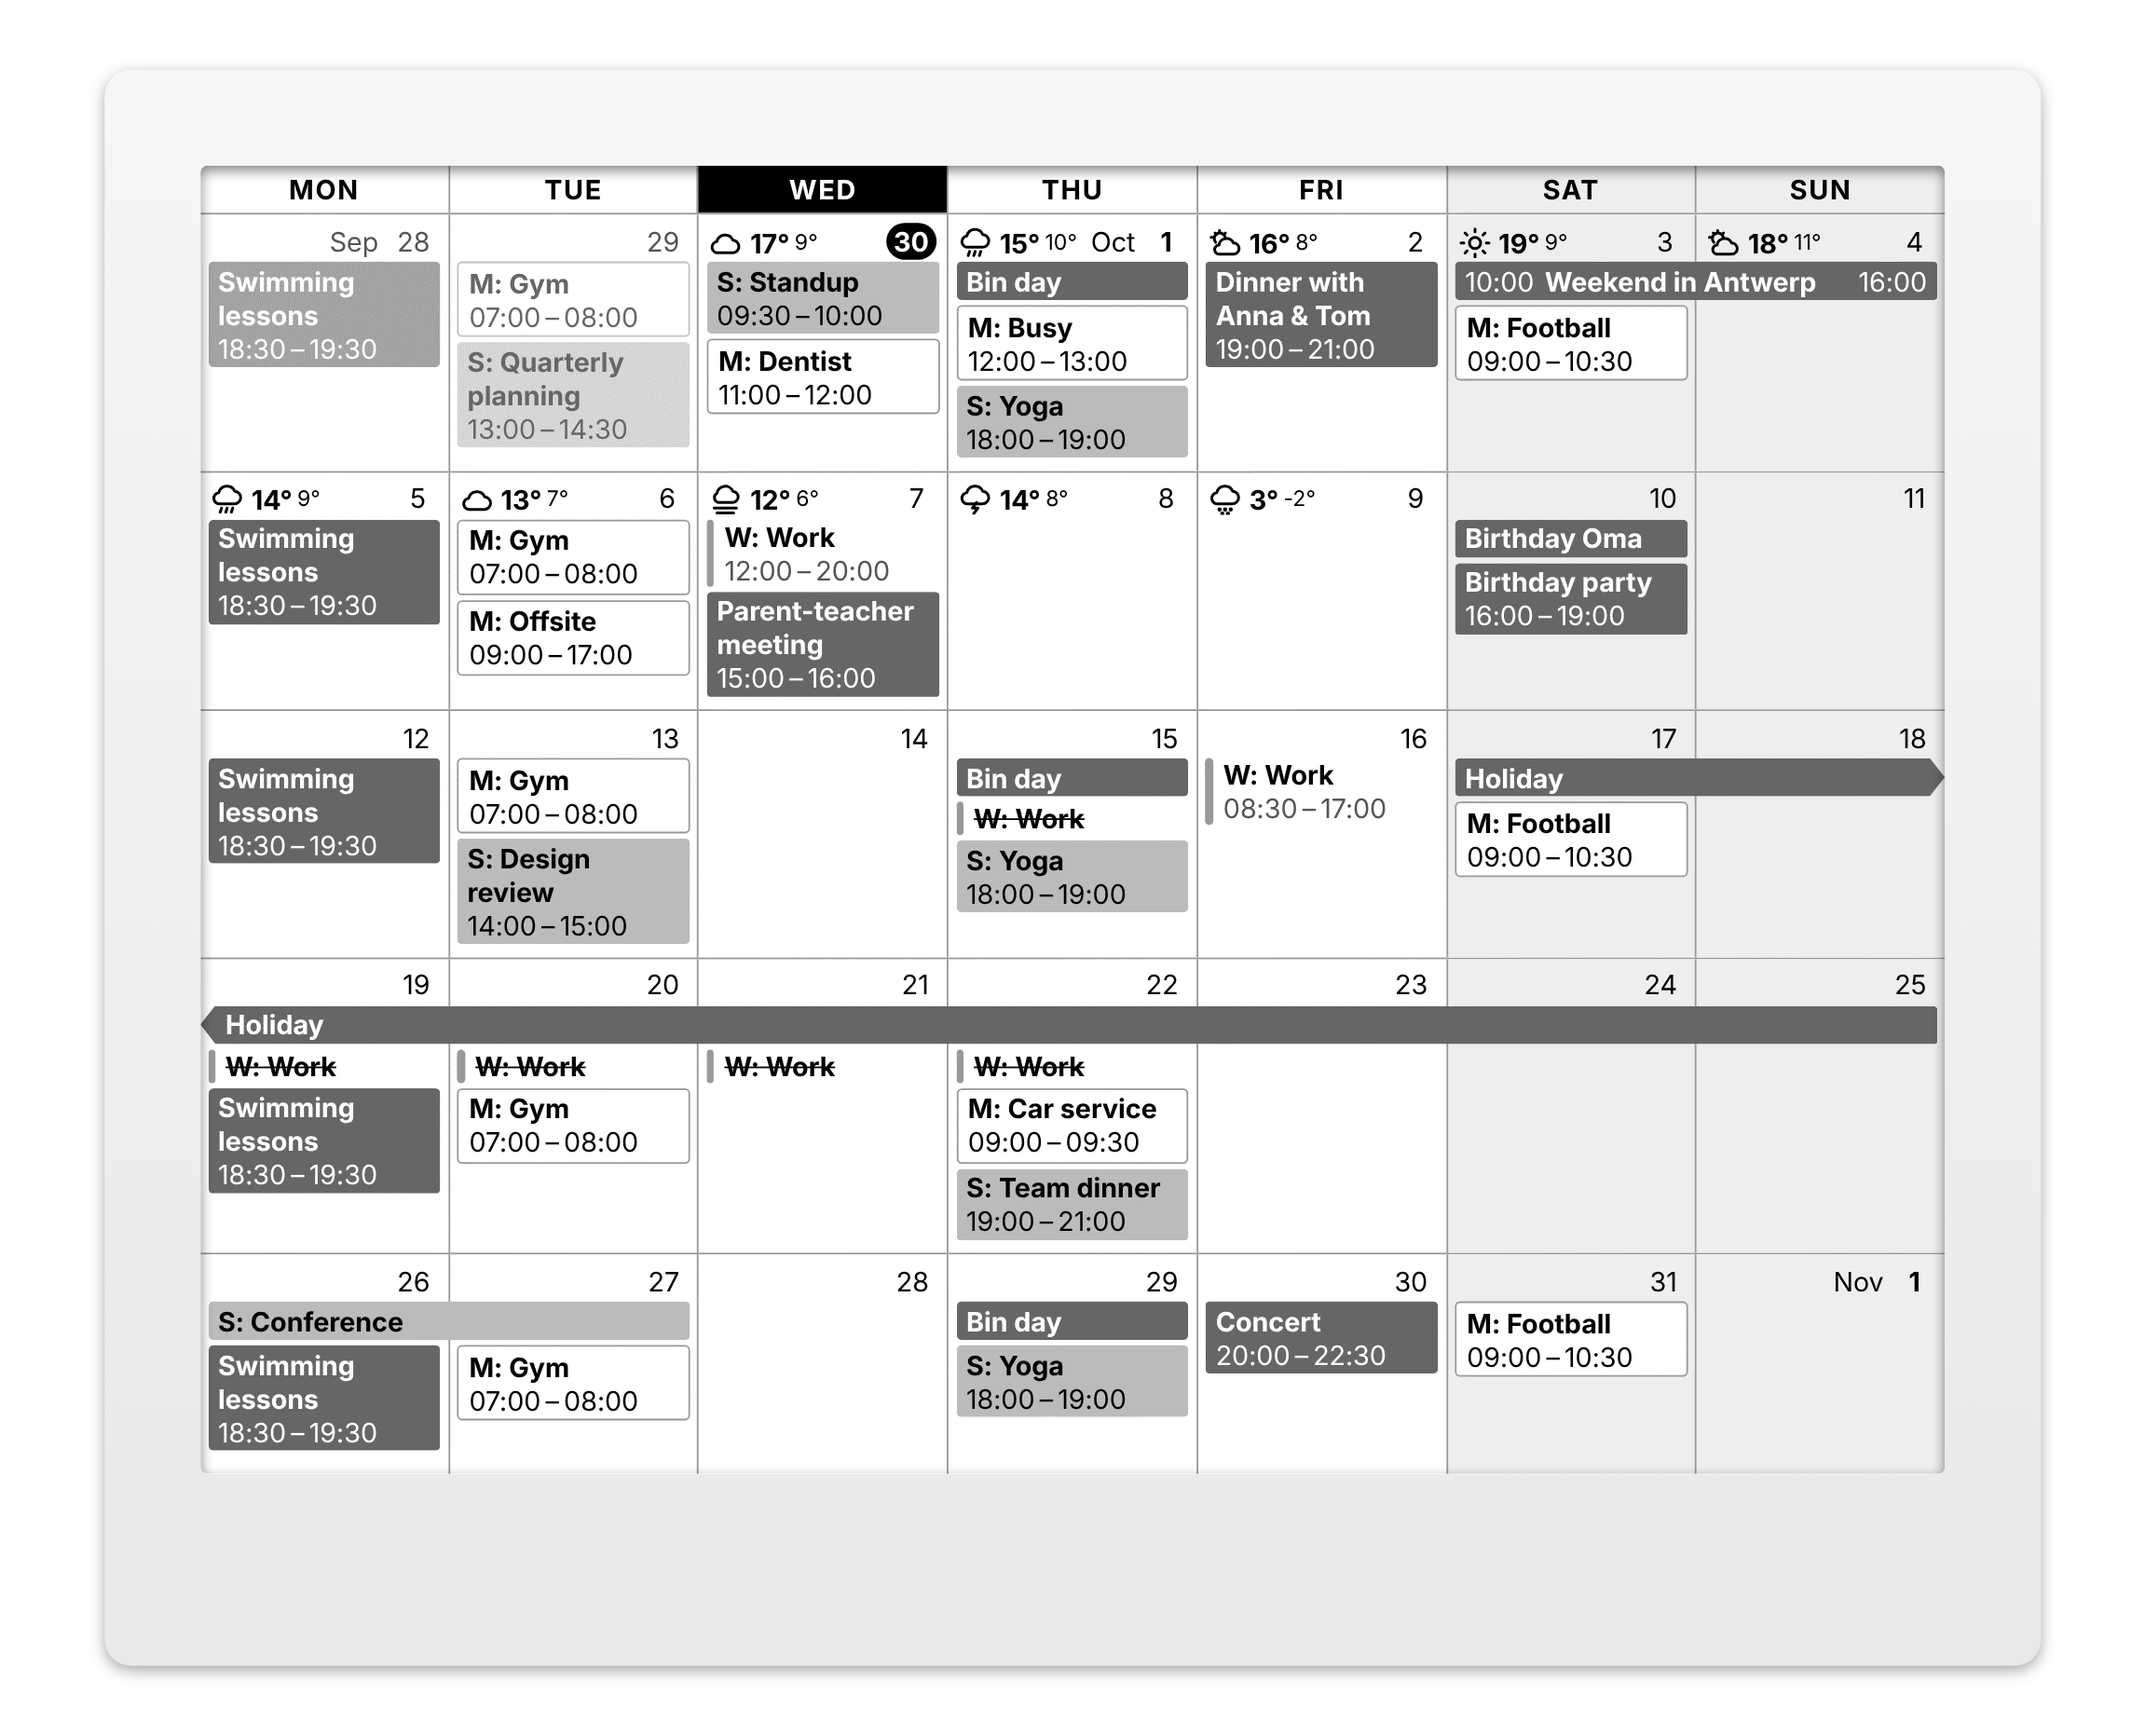
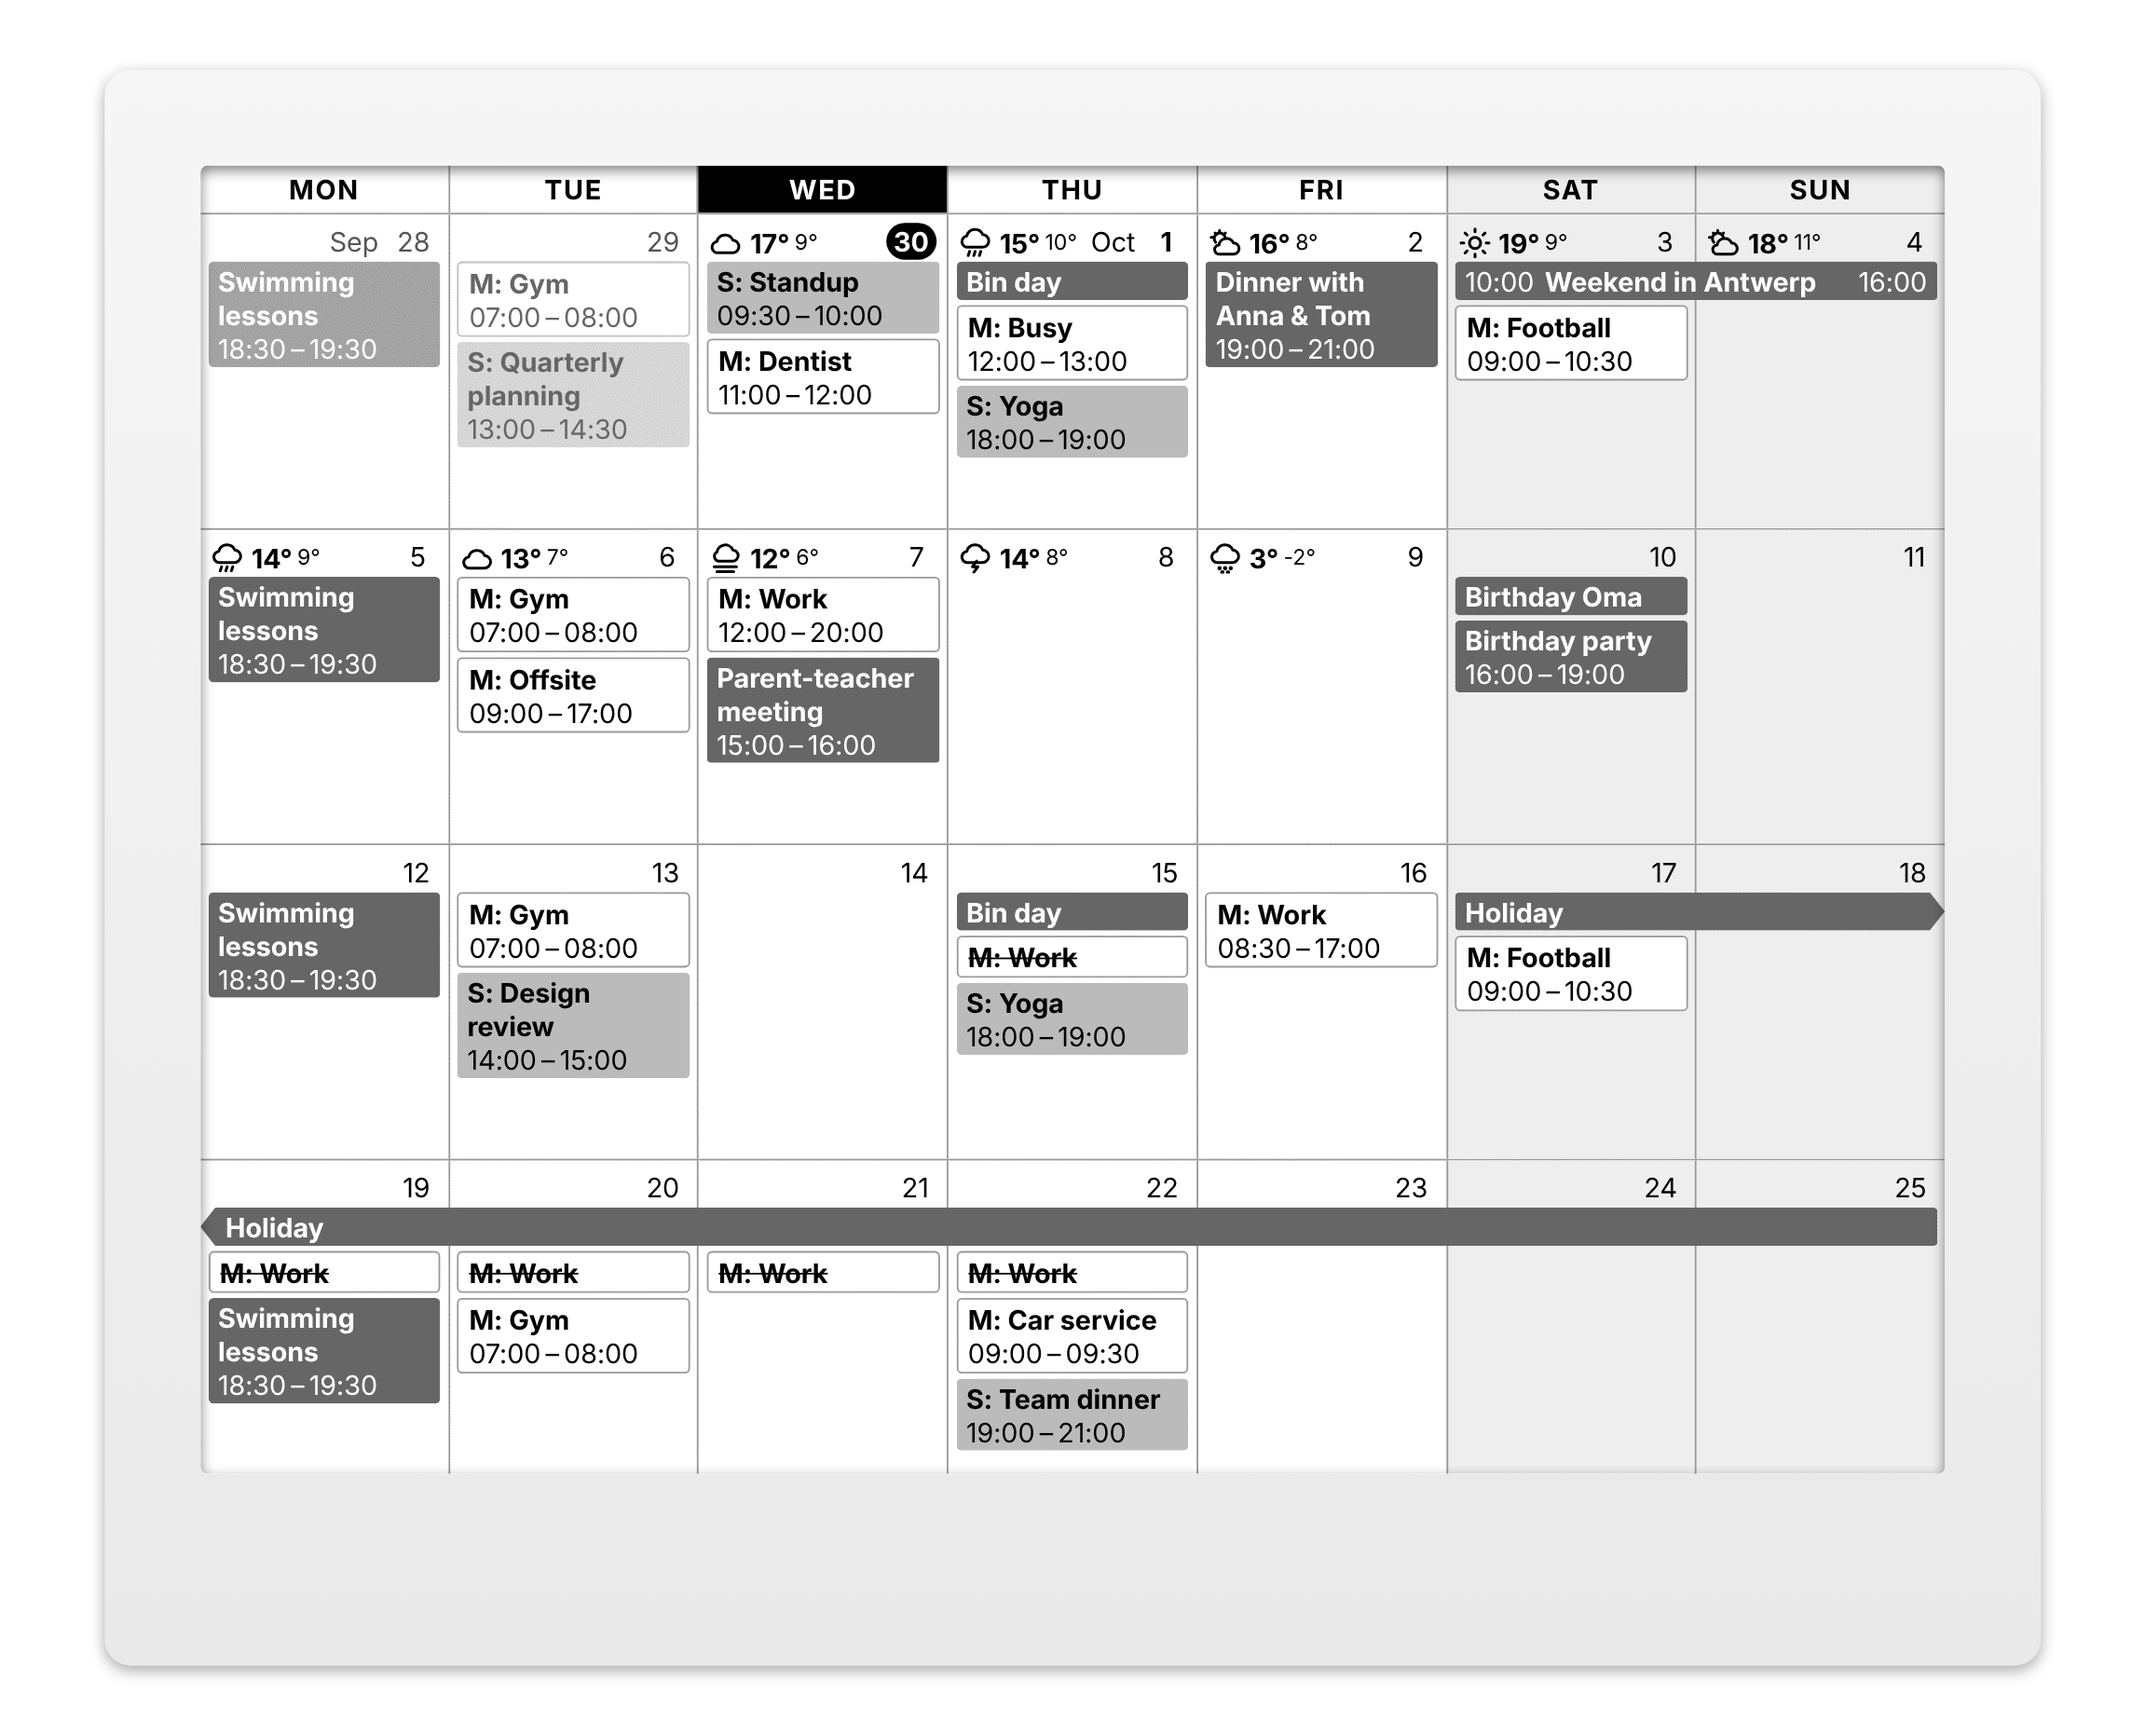
Usual week sample: Mark's work calendar, with his prefix
A work calendar belongs to someone, so the sample one shares Mark's M: prefix
and color in the README screenshot and the CI renders.

Claude-Session: https://claude.ai/code/session_012o4AiAHExqNSp6iPRm5q7d

Changed region(s): [[0.0925, 0.2803, 0.9253, 0.841], [0.6785, 0.2803, 0.8019, 0.4049], [0.5552, 0.2803, 0.6169, 0.3426]]

diff --git a/README.md b/README.md
@@ -403,8 +403,9 @@ are no commas in it (they separate the calendars). A crossed-out day takes the t
 (with the calendar's prefix), else the rule's title, else that of the calendar's other
 usual events, else the prefix alone.
 
-<sub>The sample calendars with a work calendar (`W:`) on `Mon-Thu 08:30-17:00`: a later
-Wednesday, a Thursday swapped for Friday, and the holiday week off.</sub><br>
+<sub>The sample calendars with Mark's work calendar (same `M:` prefix and color) on
+`Mon-Thu 08:30-17:00`: a later Wednesday, a Thursday swapped for Friday, and the holiday
+week off.</sub><br>
 <img src="docs/usual-week.png" width="100%">
 
 ## Differences from upstream
